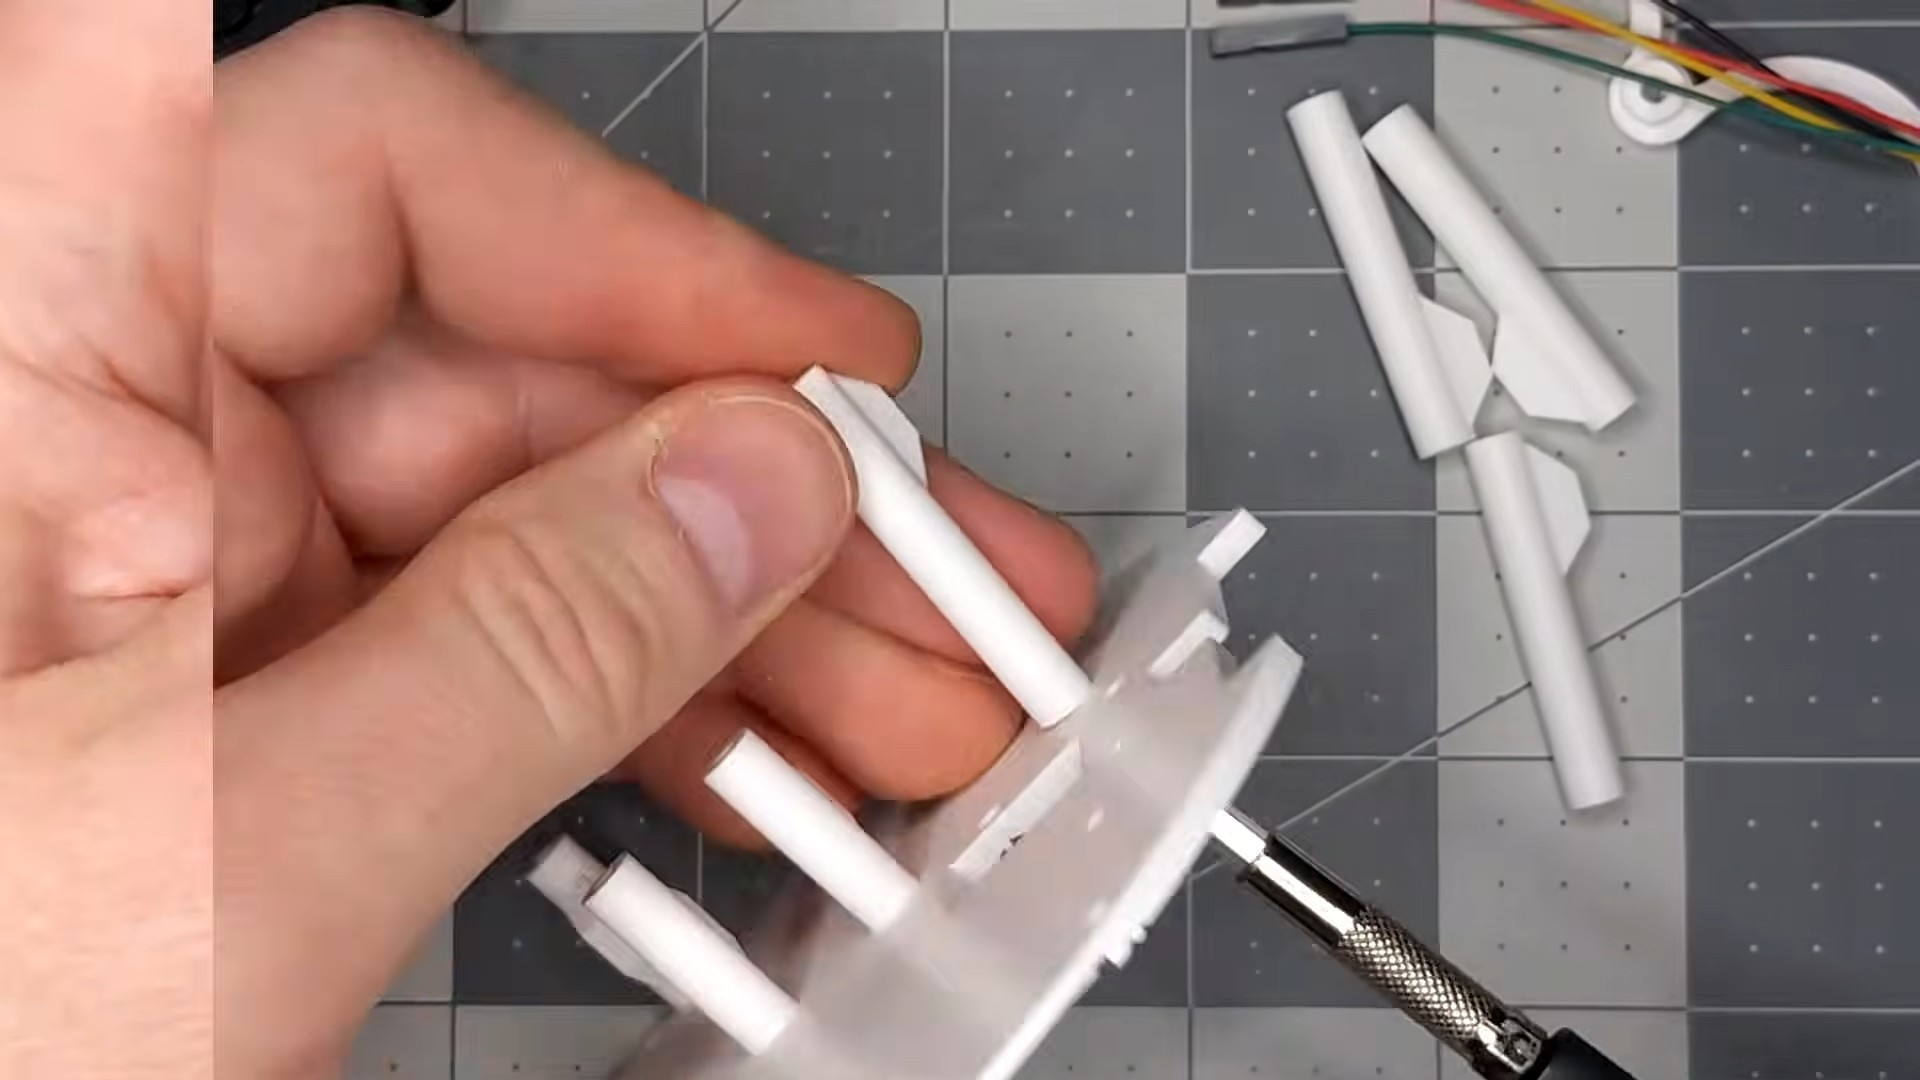
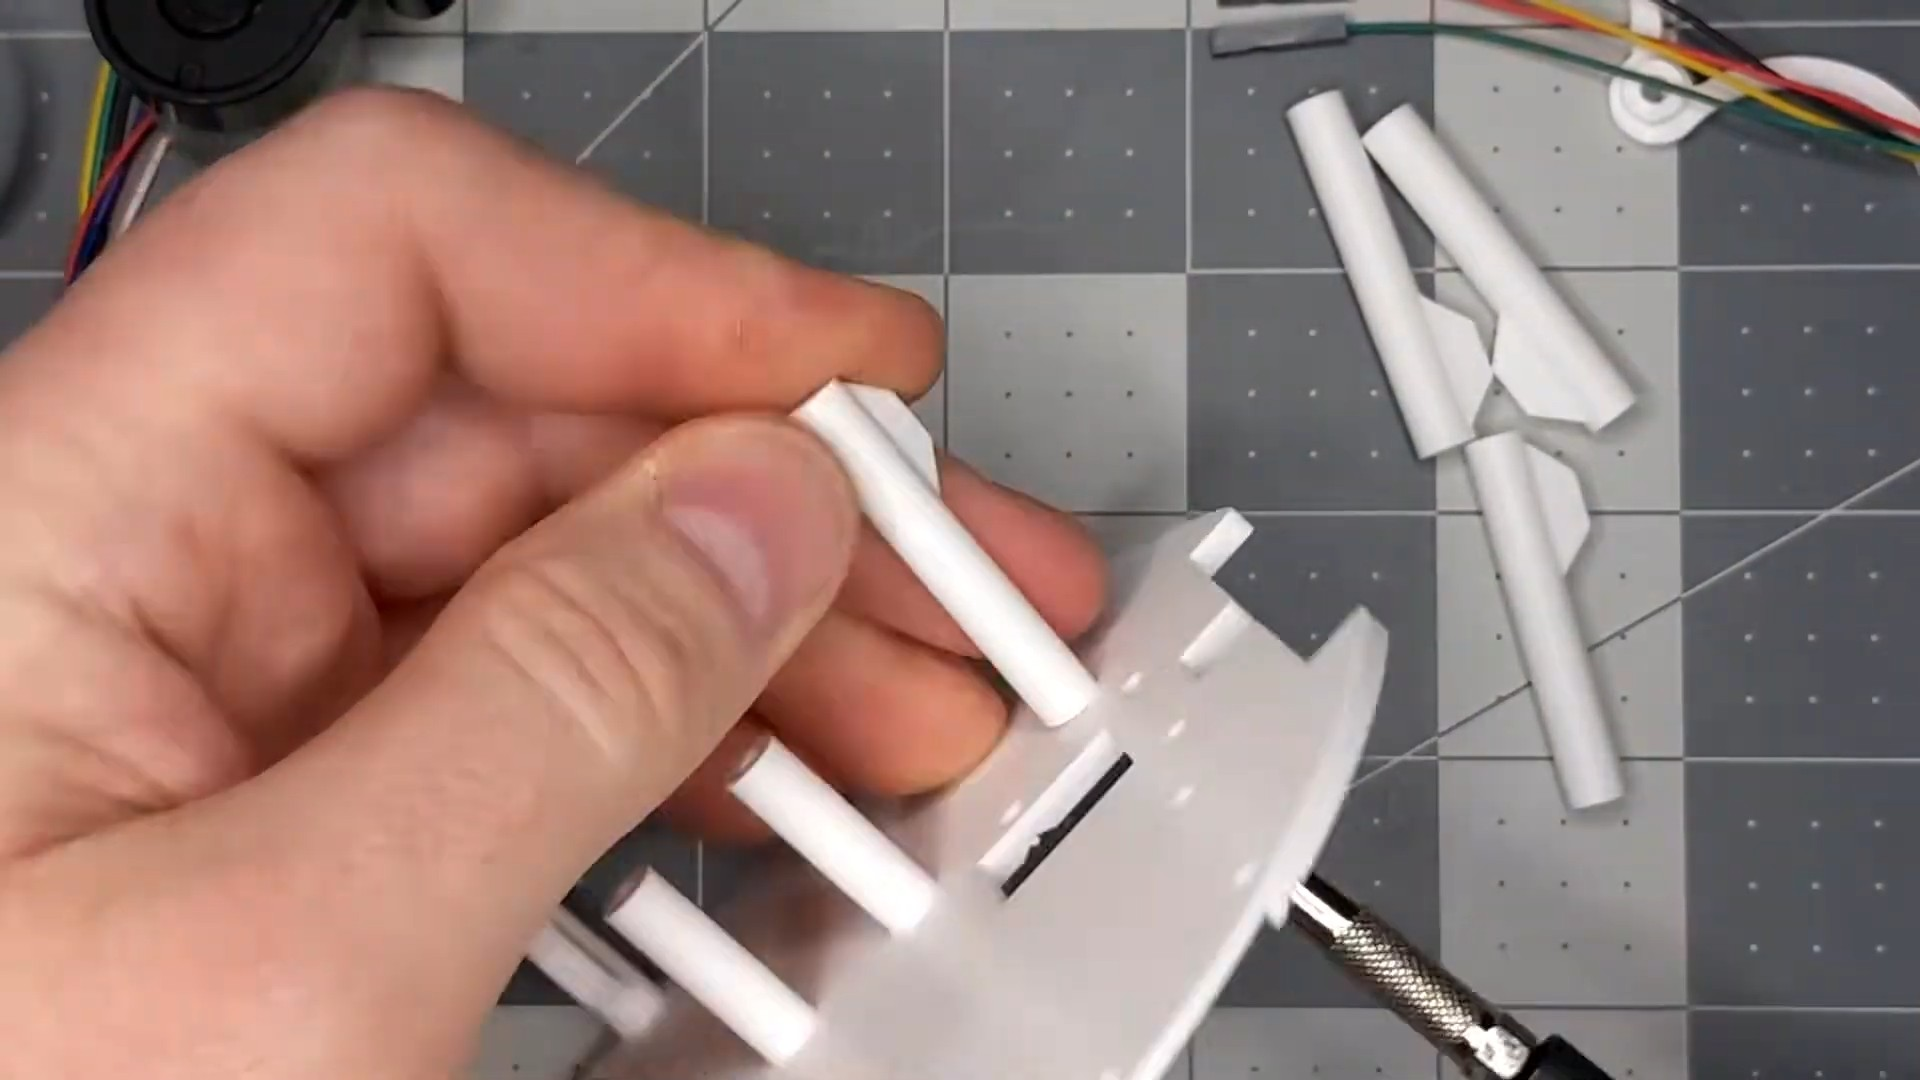
Layout and wording fixes from the manuscript review
- Preface: "Pick your path" follows the chapter table; Conventions
  starts on its own page
- Keep the motor wire-color table with its lead-in sentence
- Page breaks before Ch3 "If you use Arduino IDE 1.8.19" and Ch5
  "Shut down"
- Cleaner "Attach the LiDAR posts" frame (no crossfade)
- Motor check: the magnet should turn freely; if not, the motor or
  gearbox may be jammed (was backwards)

diff --git a/self-driving/v1/book/01-assembly.md b/self-driving/v1/book/01-assembly.md
@@ -64,11 +64,13 @@ Wire the screw terminals first, while the board is loose in your hand.
 
 5. Connect the rest the same way, one motor cable per motor terminal block. Tug each wire gently to check it holds.
 
+<div class="keep" markdown="1">
 Both motor terminal blocks use the same order:
 
 | Terminal | M2 | M1 | GND | ENCA | ENCB | +Venc |
 |---|---|---|---|---|---|---|
 | Wire color | red | white | blue | green | yellow | black |
+</div>
 
 !!! note
     These are the colors of the cables shipping now. Restocked cables may differ; if so, go by the
@@ -325,7 +327,7 @@ motor-to-cable and cable-to-board connections.
     - The motor wires are in the **correct screw terminals**, none broken or loose.
     - **No debris in the gearbox**; it can seize the gears and burn out the motor.
     - **Motor screws not overtightened**; bent plastic can catch the gears or encoder disk.
-    - Gently spin the magnet to turn the motor's core shaft. If it turns freely, the gearbox may be seizing.
+    - Gently spin the magnet to turn the motor's core shaft. It should turn freely; if it doesn't, the motor or its gearbox may be jammed.
     - Encoder sensors can get bent and touch the encoder wheel. Carefully bend them back and check the encoder magnet turns freely.
     - No cable rubs on a motor's encoder magnet.
 

diff --git a/self-driving/v1/book/00-preface.md b/self-driving/v1/book/00-preface.md
@@ -59,17 +59,19 @@ software setup, the assembly and the bring-up. For a first build, set aside a da
 | Appendix C | Quick reference: commands, LED codes and links | |
 | Appendix D | 3D printing the robot's plastic parts | |
 
-<div class="page-break"></div>
-
+<div class="keep" markdown="1">
 Pick your path:
 
 - **Windows PC:** Chapters 1 → 2 → 3 → 4 → 5.
 - **Ubuntu PC:** Chapter 1 → 8 → 4 → 5.
 - **No robot yet?** Install the PC software (Chapter 2 or 8, skipping the Arduino parts), then go
   straight to Chapters 6 and 7.
+</div>
 
 Each chapter starts with a link to its video. The illustrations are frames from that video, so if
 a step isn't clear from a picture, you can watch that part of the video.
+
+<div class="page-break"></div>
 
 ## Conventions
 

diff --git a/self-driving/v1/book/10-appendix-b-troubleshooting.md b/self-driving/v1/book/10-appendix-b-troubleshooting.md
@@ -93,7 +93,7 @@ Start with the mechanics and wiring:
 - Keep debris out of the gearbox; it can seize the gears and burn out the motor.
 - Don't overtighten the motor screws. Bent plastic (including the base) can catch the gears or the
   encoder disk and burn out the motor.
-- Gently spin the magnet. If the core shaft spins freely, the gearbox may be seizing.
+- Gently spin the magnet to turn the motor's core shaft. It should turn freely; if it doesn't, the motor or its gearbox may be jammed.
 - Bent encoder sensors can touch the encoder wheel. Bend them back and check the magnet spins
   freely.
 

diff --git a/self-driving/v1/book/03-bring-up.md b/self-driving/v1/book/03-bring-up.md
@@ -120,6 +120,8 @@ lives in a separate flash area (SPIFFS), so it is uploaded separately.
 
     ![Config loaded; ready for WiFi configuration.](yt:tKfVU1n5TjA@2:34#crop=0.36,0.40,0.50,0.47)
 
+<div class="page-break"></div>
+
 ## If you use Arduino IDE 1.8.19 {: #ide1-upload }
 
 Skip this section if you use IDE 2.x. With IDE 1.8.19, follow these steps instead of the two

diff --git a/self-driving/v1/book/05-self-driving.md b/self-driving/v1/book/05-self-driving.md
@@ -198,6 +198,8 @@ Next time, skip exploring and load the saved map.
 
 ![The Navigation 2 panel shows navigation status.](yt:81-9q7QfkHs@4:50#crop=0,0.08,0.3,0.5)
 
+<div class="page-break"></div>
+
 ## Shut down
 
 1. Press Ctrl-C in each window.
